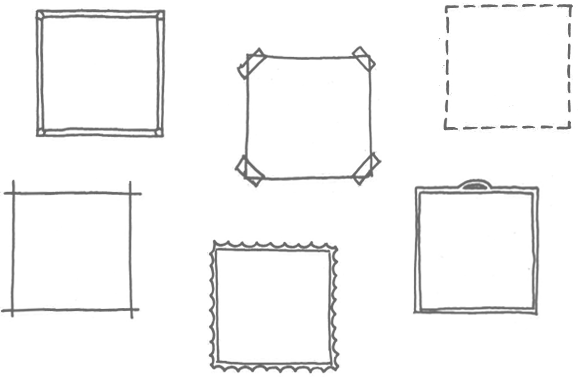
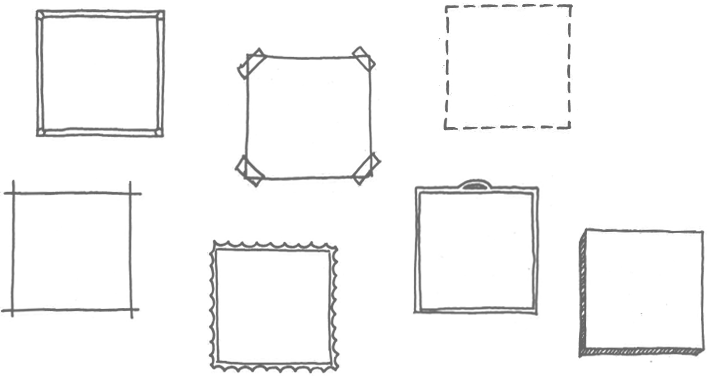
add Chau

diff --git a/index_en.html b/index_en.html
@@ -62,6 +62,7 @@
       <div class="diggerlab_blueduo"><a href="#blueduo"><img src="images/blueduo.jpg" data-photo-org="images/blueduo.jpg"  data-photo-back="images/blueduo_1.jpg" alt="blueduo" /></a> </div>
       <div class="diggerlab_nami"><a href="#pan"><img src="images/pan.jpg" data-photo-org="images/pan.jpg"  data-photo-back="images/pan_1.jpg"  alt="pan" /></a> </div>
       <div class="diggerlab_ryan"><a href="#miko"><img src="images/miko.jpg"  data-photo-org="images/miko.jpg"  data-photo-back="images/miko_1.jpg" alt="nami" /></a> </div>
+      <div class="diggerlab_chau"><a href="#chau"><img src="images/chau.jpg"  data-photo-org="images/chau.jpg"  data-photo-back="images/chau_1.jpg" alt="chau" /></a> </div>
     </div>
     <div id="member_intro"> </div>
     <div id="kan" style="display:none;"> <img src="images/kan_big.jpg" alt="kan" class="team_big" /> <span class="team_js">
@@ -107,6 +108,12 @@
       <div id="miko" name="miko" style="display:none"> <img src="images/miko_big.jpg" alt="pan" class="team_big" /> <span class="team_js">
       <p class="name">Ying Jin (Visual designer)</p>
       <p class="txt"> 2 years UI visual design experience<br />currently studying at the East China University of Science and Technology of art design<br /> <a href="http://weibo.com/mikoking" target="_blank"><img src="images/weibo_icon.jpg" alt="weibo" /></a> </p>
+      </p>
+      </span> </div>
+      
+      <div id="chau" name="chau" style="display:none"> <img src="images/chau_big.jpg" alt="pan" class="team_big" /> <span class="team_js">
+      <p class="name">JIDA ZHOU（Community Manager）</p>
+      <p class="txt"> Get Together,CEO<br />One year of community operating experience<br />currently studying at Shanghai University of Sport of Journalism<br /> <a href="http://weibo.com/hellozjd" target="_blank"><img src="images/weibo_icon.jpg" alt="weibo" /></a> </p>
       </p>
       </span> </div>
       

diff --git a/index.html b/index.html
@@ -64,6 +64,7 @@
       <div class="diggerlab_blueduo"><a href="#blueduo"><img src="images/blueduo.jpg" data-photo-org="images/blueduo.jpg"  data-photo-back="images/blueduo_1.jpg" alt="blueduo" /></a> </div>
       <div class="diggerlab_nami"> <a href="#pan"><img src="images/pan.jpg" data-photo-org="images/pan.jpg"  data-photo-back="images/pan_1.jpg"  alt="pan" /></a></div>
       <div class="diggerlab_ryan"><a href="#miko"><img src="images/miko.jpg"  data-photo-org="images/miko.jpg"  data-photo-back="images/miko_1.jpg" alt="nami" /></a> </div>
+      <div class="diggerlab_chau"><a href="#chau"><img src="images/chau.jpg"  data-photo-org="images/chau.jpg"  data-photo-back="images/chau_1.jpg" alt="chau" /></a> </div>
     </div>
     <div id="member_intro"> </div>
     <div id="kan" style="display:none"> <img src="images/kan_big.jpg" alt="kan" class="team_big" /> <span class="team_js">
@@ -109,6 +110,13 @@
       <div id="miko" name="miko" style="display:none"> <img src="images/miko_big.jpg" alt="pan" class="team_big" /> <span class="team_js">
       <p class="name">金莹（视觉设计师） </p>
       <p class="txt"> 2年界面视觉设计经验<br />目前就读于华东理工大学艺术设计专业硕士课程<br /> <a href="http://weibo.com/mikoking" target="_blank"><img src="images/weibo_icon.jpg" alt="weibo" /></a> </p>
+      </p>
+      </span> </div>
+
+
+      <div id="chau" name="chau" style="display:none"> <img src="images/chau_big.jpg" alt="pan" class="team_big" /> <span class="team_js">
+      <p class="name">周骥达（社区经理）</p>
+      <p class="txt"> 聚嗨创始人<br />1年社区运营经验<br />目前就读于上海体育学院新闻专业<br /> <a href="http://weibo.com/hellozjd" target="_blank"><img src="images/weibo_icon.jpg" alt="weibo" /></a> </p>
       </p>
       </span> </div>
 

diff --git a/css/style.css b/css/style.css
@@ -252,8 +252,8 @@ li {
 	height:126px;
 	background:url(../images/member_bg.png) no-repeat -228px -45px;
 	position:absolute;
-	top:21px;
-	left:224px;
+	top:9px;
+	left:263px;
 	padding:22px 0 0 28px
 }
 .diggerlab_mike {
@@ -261,8 +261,8 @@ li {
 	height:127px;
 	background:url(../images/member_bg.png) no-repeat -437px 0px;
 	position:absolute;
-	top:-1px;
-	left:427px;
+	top:-6px;
+	left:524px;
 	padding:17px 0 0 18px
 }
 .diggerlab_blueduo {
@@ -270,8 +270,8 @@ li {
 	height:122px;
 	background:url(../images/member_bg.png) no-repeat 0px -175px;
 	position:absolute;
-	top:150px;
-	left:1px;
+	top:165px;
+	left:4px;
 	padding:25px 0 0 19px
 }
 .diggerlab_nami {
@@ -279,8 +279,8 @@ li {
 	height:120px;
 	background:url(../images/member_bg.png) no-repeat -207px -237px;
 	position:absolute;
-	top:188px;
-	left:200px;
+	top:198px;
+	left:229px;
 	padding:18px 0 0 13px
 }
 .diggerlab_ryan {
@@ -288,9 +288,18 @@ li {
 	height:118px;
 	background:url(../images/member_bg.png) no-repeat -411px -177px;
 	position:absolute;
-	top:164px;
-	left:410px;
+	top:167px;
+	left:463px;
 	padding:24px 0 0 13px
+}
+.diggerlab_chau {
+	width:116px;
+	height:123px;
+	background:url(../images/member_bg.png) no-repeat -578px -224px;
+	position:absolute;
+	top:200px;
+	left:680px;
+	padding:16px 0 0 13px
 }
 .team_big {
 	width:180px;
